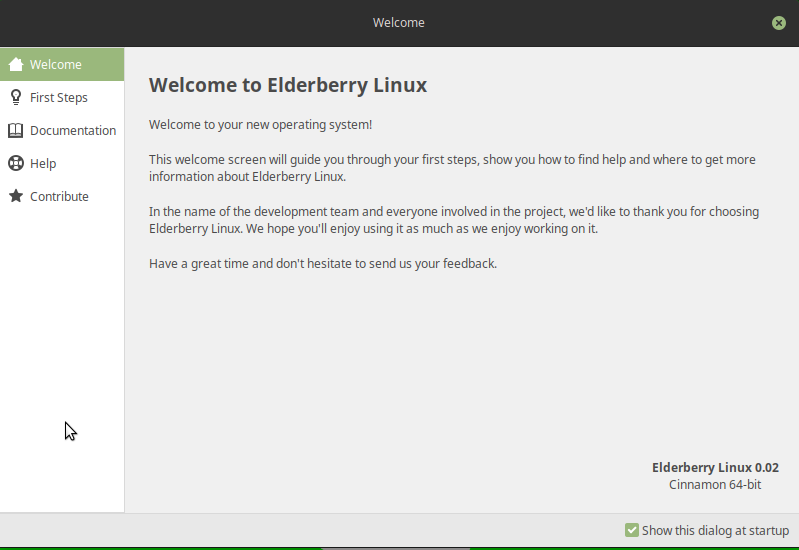
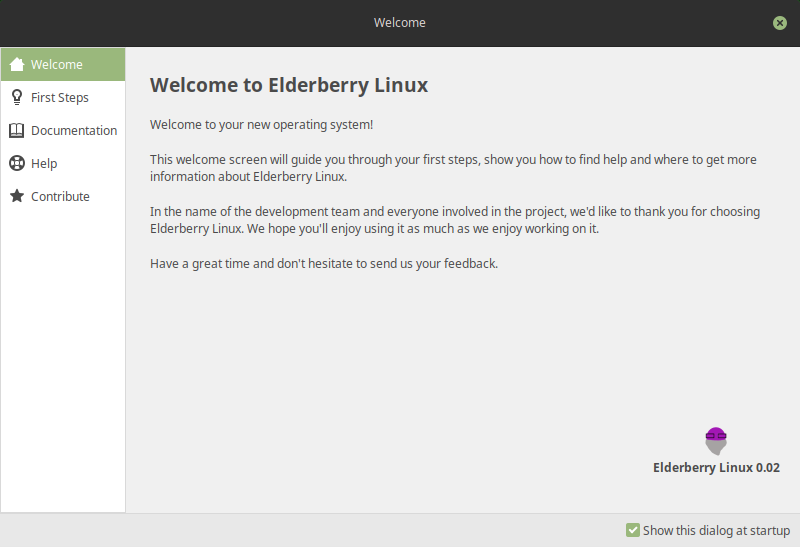
changed README Pic

diff --git a/debian/elderwelcome/usr/lib/elderberrylinux/elderwelcome/elderwelcome.py b/debian/elderwelcome/usr/lib/elderberrylinux/elderwelcome/elderwelcome.py
@@ -62,7 +62,7 @@ class ElderWelcome():
 
         # Setup the labels in the Mint badge
         builder.get_object("label_version").set_text("%s %s" % (dist_name, release))
-        builder.get_object("label_edition").set_text("%s %s" % (edition, architecture))
+        #builder.get_object("label_edition").set_text("%s %s" % (edition, architecture))
 
         # Setup the main stack
         self.stack = Gtk.Stack()

diff --git a/usr/lib/elderberrylinux/elderwelcome/elderwelcome.py b/usr/lib/elderberrylinux/elderwelcome/elderwelcome.py
@@ -62,7 +62,7 @@ class ElderWelcome():
 
         # Setup the labels in the Mint badge
         builder.get_object("label_version").set_text("%s %s" % (dist_name, release))
-        builder.get_object("label_edition").set_text("%s %s" % (edition, architecture))
+        #builder.get_object("label_edition").set_text("%s %s" % (edition, architecture))
 
         # Setup the main stack
         self.stack = Gtk.Stack()
